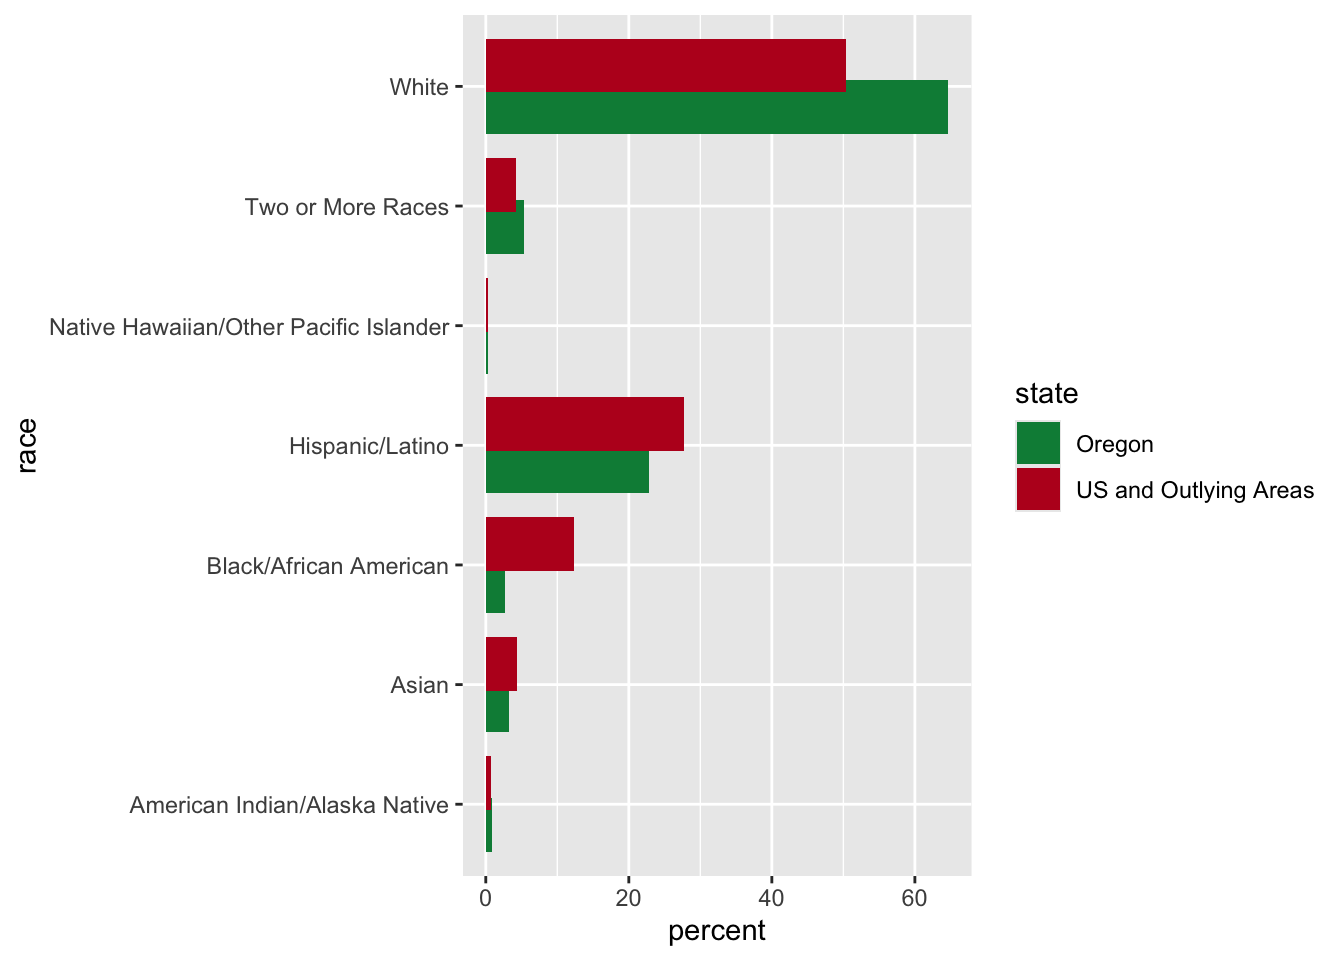
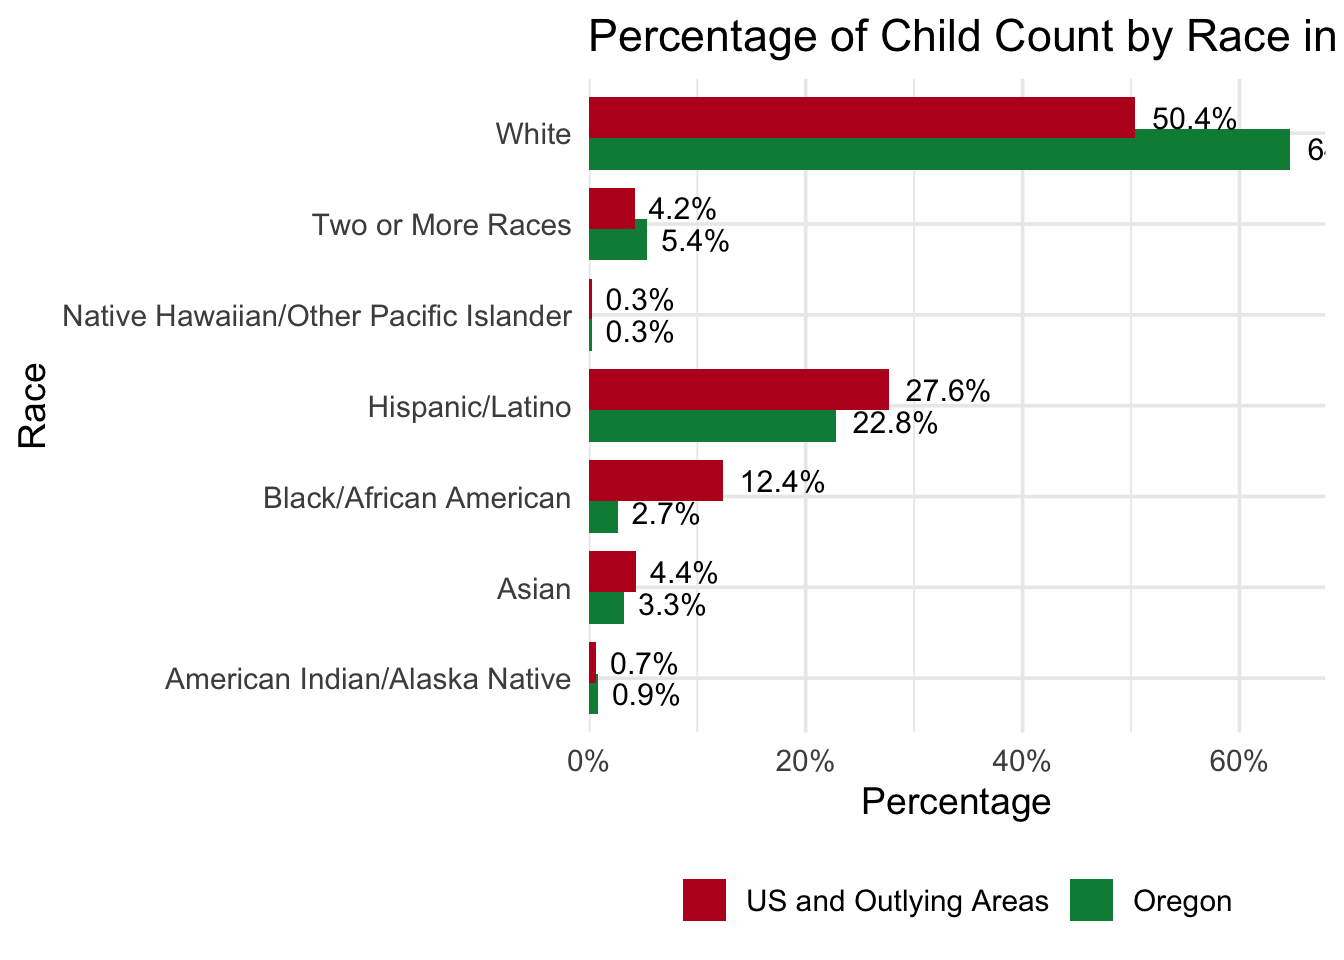
Changed colors of bars for Child Count in viz_2

diff --git a/docs/posts/viz_2/index.html b/docs/posts/viz_2/index.html
@@ -297,45 +297,99 @@ pre > code.sourceCode > span > a:first-child::before { text-decoration: underlin
 <div class="cell">
 <details class="code-fold">
 <summary>Code</summary>
-<div class="sourceCode cell-code" id="cb5"><pre class="sourceCode r code-with-copy"><code class="sourceCode r"><span id="cb5-1"><a href="#cb5-1" aria-hidden="true" tabindex="-1"></a>okabe_ito_colors <span class="ot">&lt;-</span> <span class="fu">c</span>(</span>
+<div class="sourceCode cell-code" id="cb5"><pre class="sourceCode r code-with-copy"><code class="sourceCode r"><span id="cb5-1"><a href="#cb5-1" aria-hidden="true" tabindex="-1"></a> okabe_ito_colors <span class="ot">&lt;-</span> <span class="fu">c</span>(</span>
 <span id="cb5-2"><a href="#cb5-2" aria-hidden="true" tabindex="-1"></a>  <span class="st">"US and Outlying Areas"</span> <span class="ot">=</span> <span class="fu">pal_aaas</span>(<span class="st">"default"</span>)(<span class="dv">10</span>)[<span class="dv">6</span>],      </span>
-<span id="cb5-3"><a href="#cb5-3" aria-hidden="true" tabindex="-1"></a>  <span class="st">"Oregon"</span> <span class="ot">=</span> <span class="fu">pal_aaas</span>(<span class="st">"default"</span>)(<span class="dv">10</span>)[<span class="dv">3</span>])  </span>
-<span id="cb5-4"><a href="#cb5-4" aria-hidden="true" tabindex="-1"></a></span>
-<span id="cb5-5"><a href="#cb5-5" aria-hidden="true" tabindex="-1"></a><span class="fu">ggplot</span>(childcount1920USOR_long, </span>
-<span id="cb5-6"><a href="#cb5-6" aria-hidden="true" tabindex="-1"></a>       <span class="fu">aes</span>(<span class="at">x =</span> percent, </span>
-<span id="cb5-7"><a href="#cb5-7" aria-hidden="true" tabindex="-1"></a>           <span class="at">y =</span> race, </span>
-<span id="cb5-8"><a href="#cb5-8" aria-hidden="true" tabindex="-1"></a>           <span class="at">fill =</span> state)) <span class="sc">+</span> </span>
-<span id="cb5-9"><a href="#cb5-9" aria-hidden="true" tabindex="-1"></a>  <span class="fu">geom_bar</span>(<span class="at">stat =</span> <span class="st">"identity"</span>, </span>
-<span id="cb5-10"><a href="#cb5-10" aria-hidden="true" tabindex="-1"></a>           <span class="at">position =</span> <span class="fu">position_dodge</span>(</span>
-<span id="cb5-11"><a href="#cb5-11" aria-hidden="true" tabindex="-1"></a>          <span class="at">width =</span> <span class="fl">0.7</span>)) <span class="sc">+</span>  </span>
-<span id="cb5-12"><a href="#cb5-12" aria-hidden="true" tabindex="-1"></a>  <span class="fu">scale_fill_manual</span>(</span>
-<span id="cb5-13"><a href="#cb5-13" aria-hidden="true" tabindex="-1"></a>    <span class="at">values =</span> okabe_ito_colors, </span>
-<span id="cb5-14"><a href="#cb5-14" aria-hidden="true" tabindex="-1"></a>    <span class="at">breaks =</span> <span class="fu">c</span>(<span class="st">"US and Outlying Areas"</span>, <span class="st">"Oregon"</span>),         </span>
-<span id="cb5-15"><a href="#cb5-15" aria-hidden="true" tabindex="-1"></a>    <span class="at">labels =</span> <span class="fu">c</span>(<span class="st">"US and Outlying Areas"</span>, <span class="st">"Oregon"</span>)          </span>
-<span id="cb5-16"><a href="#cb5-16" aria-hidden="true" tabindex="-1"></a>  ) <span class="sc">+</span></span>
-<span id="cb5-17"><a href="#cb5-17" aria-hidden="true" tabindex="-1"></a>  <span class="fu">scale_x_continuous</span>(</span>
-<span id="cb5-18"><a href="#cb5-18" aria-hidden="true" tabindex="-1"></a>    <span class="at">labels =</span> <span class="fu">percent_format</span>(<span class="at">scale =</span> <span class="dv">1</span>), </span>
-<span id="cb5-19"><a href="#cb5-19" aria-hidden="true" tabindex="-1"></a>    <span class="at">expand =</span> <span class="fu">expansion</span>(<span class="at">mult =</span> <span class="fu">c</span>(<span class="dv">0</span>, <span class="fl">0.05</span>))) <span class="sc">+</span></span>
-<span id="cb5-20"><a href="#cb5-20" aria-hidden="true" tabindex="-1"></a>  <span class="fu">labs</span>(</span>
-<span id="cb5-21"><a href="#cb5-21" aria-hidden="true" tabindex="-1"></a>    <span class="at">title =</span> <span class="st">"Percentage of Child Count by Race in US &amp; Oregon"</span>,</span>
-<span id="cb5-22"><a href="#cb5-22" aria-hidden="true" tabindex="-1"></a>    <span class="at">x =</span> <span class="st">"Percentage"</span>,</span>
-<span id="cb5-23"><a href="#cb5-23" aria-hidden="true" tabindex="-1"></a>    <span class="at">y =</span> <span class="st">"Race"</span>,</span>
-<span id="cb5-24"><a href="#cb5-24" aria-hidden="true" tabindex="-1"></a>    <span class="at">fill =</span> <span class="cn">NULL</span>) <span class="sc">+</span></span>
-<span id="cb5-25"><a href="#cb5-25" aria-hidden="true" tabindex="-1"></a>  <span class="fu">geom_text</span>(<span class="fu">aes</span>(</span>
-<span id="cb5-26"><a href="#cb5-26" aria-hidden="true" tabindex="-1"></a>    <span class="at">label =</span> scales<span class="sc">::</span><span class="fu">percent</span>(percent <span class="sc">/</span> <span class="dv">100</span>, <span class="at">accuracy =</span> <span class="fl">0.1</span>)), </span>
-<span id="cb5-27"><a href="#cb5-27" aria-hidden="true" tabindex="-1"></a>    <span class="at">position =</span> <span class="fu">position_dodge</span>(<span class="at">width =</span> <span class="fl">0.7</span>), </span>
-<span id="cb5-28"><a href="#cb5-28" aria-hidden="true" tabindex="-1"></a>    <span class="at">hjust =</span> <span class="sc">-</span><span class="fl">0.2</span>,  </span>
-<span id="cb5-29"><a href="#cb5-29" aria-hidden="true" tabindex="-1"></a>    <span class="at">color =</span> <span class="st">"black"</span>, </span>
-<span id="cb5-30"><a href="#cb5-30" aria-hidden="true" tabindex="-1"></a>    <span class="at">size =</span> <span class="dv">4</span>) <span class="sc">+</span>  </span>
-<span id="cb5-31"><a href="#cb5-31" aria-hidden="true" tabindex="-1"></a>  <span class="fu">theme_minimal</span>(<span class="at">base_size =</span> <span class="dv">14</span>) <span class="sc">+</span></span>
-<span id="cb5-32"><a href="#cb5-32" aria-hidden="true" tabindex="-1"></a>  <span class="fu">theme</span>(</span>
-<span id="cb5-33"><a href="#cb5-33" aria-hidden="true" tabindex="-1"></a>    <span class="at">legend.position =</span> <span class="st">"bottom"</span></span>
-<span id="cb5-34"><a href="#cb5-34" aria-hidden="true" tabindex="-1"></a>  )</span></code><button title="Copy to Clipboard" class="code-copy-button"><i class="bi"></i></button></pre></div>
+<span id="cb5-3"><a href="#cb5-3" aria-hidden="true" tabindex="-1"></a>  <span class="st">"Oregon"</span> <span class="ot">=</span> <span class="fu">pal_aaas</span>(<span class="st">"default"</span>)(<span class="dv">10</span>)[<span class="dv">3</span>])</span></code><button title="Copy to Clipboard" class="code-copy-button"><i class="bi"></i></button></pre></div>
+</details>
+</div>
+<div class="cell">
+<details class="code-fold">
+<summary>Code</summary>
+<div class="sourceCode cell-code" id="cb6"><pre class="sourceCode r code-with-copy"><code class="sourceCode r"><span id="cb6-1"><a href="#cb6-1" aria-hidden="true" tabindex="-1"></a><span class="fu">ggplot</span>(childcount1920USOR_long, </span>
+<span id="cb6-2"><a href="#cb6-2" aria-hidden="true" tabindex="-1"></a>       <span class="fu">aes</span>(<span class="at">x =</span> percent, </span>
+<span id="cb6-3"><a href="#cb6-3" aria-hidden="true" tabindex="-1"></a>           <span class="at">y =</span> race, </span>
+<span id="cb6-4"><a href="#cb6-4" aria-hidden="true" tabindex="-1"></a>           <span class="at">fill =</span> state)) <span class="sc">+</span> </span>
+<span id="cb6-5"><a href="#cb6-5" aria-hidden="true" tabindex="-1"></a>  <span class="fu">geom_bar</span>(<span class="at">stat =</span> <span class="st">"identity"</span>, </span>
+<span id="cb6-6"><a href="#cb6-6" aria-hidden="true" tabindex="-1"></a>           <span class="at">position =</span> <span class="fu">position_dodge</span>(</span>
+<span id="cb6-7"><a href="#cb6-7" aria-hidden="true" tabindex="-1"></a>          <span class="at">width =</span> <span class="fl">0.7</span>)) <span class="sc">+</span>  </span>
+<span id="cb6-8"><a href="#cb6-8" aria-hidden="true" tabindex="-1"></a>  <span class="fu">scale_fill_manual</span>(</span>
+<span id="cb6-9"><a href="#cb6-9" aria-hidden="true" tabindex="-1"></a>    <span class="at">values =</span> okabe_ito_colors, </span>
+<span id="cb6-10"><a href="#cb6-10" aria-hidden="true" tabindex="-1"></a>    <span class="at">breaks =</span> <span class="fu">c</span>(<span class="st">"US and Outlying Areas"</span>, <span class="st">"Oregon"</span>),         </span>
+<span id="cb6-11"><a href="#cb6-11" aria-hidden="true" tabindex="-1"></a>    <span class="at">labels =</span> <span class="fu">c</span>(<span class="st">"US and Outlying Areas"</span>, <span class="st">"Oregon"</span>)          </span>
+<span id="cb6-12"><a href="#cb6-12" aria-hidden="true" tabindex="-1"></a>  ) <span class="sc">+</span></span>
+<span id="cb6-13"><a href="#cb6-13" aria-hidden="true" tabindex="-1"></a>  <span class="fu">scale_x_continuous</span>(</span>
+<span id="cb6-14"><a href="#cb6-14" aria-hidden="true" tabindex="-1"></a>    <span class="at">labels =</span> <span class="fu">percent_format</span>(<span class="at">scale =</span> <span class="dv">1</span>), </span>
+<span id="cb6-15"><a href="#cb6-15" aria-hidden="true" tabindex="-1"></a>    <span class="at">expand =</span> <span class="fu">expansion</span>(<span class="at">mult =</span> <span class="fu">c</span>(<span class="dv">0</span>, <span class="fl">0.05</span>))) <span class="sc">+</span></span>
+<span id="cb6-16"><a href="#cb6-16" aria-hidden="true" tabindex="-1"></a>  <span class="fu">labs</span>(</span>
+<span id="cb6-17"><a href="#cb6-17" aria-hidden="true" tabindex="-1"></a>    <span class="at">title =</span> <span class="st">"Percentage of Child Count by Race in US &amp; Oregon"</span>,</span>
+<span id="cb6-18"><a href="#cb6-18" aria-hidden="true" tabindex="-1"></a>    <span class="at">x =</span> <span class="st">"Percentage"</span>,</span>
+<span id="cb6-19"><a href="#cb6-19" aria-hidden="true" tabindex="-1"></a>    <span class="at">y =</span> <span class="st">"Race"</span>,</span>
+<span id="cb6-20"><a href="#cb6-20" aria-hidden="true" tabindex="-1"></a>    <span class="at">fill =</span> <span class="cn">NULL</span>) <span class="sc">+</span></span>
+<span id="cb6-21"><a href="#cb6-21" aria-hidden="true" tabindex="-1"></a>  <span class="fu">geom_text</span>(<span class="fu">aes</span>(</span>
+<span id="cb6-22"><a href="#cb6-22" aria-hidden="true" tabindex="-1"></a>    <span class="at">label =</span> scales<span class="sc">::</span><span class="fu">percent</span>(percent <span class="sc">/</span> <span class="dv">100</span>, <span class="at">accuracy =</span> <span class="fl">0.1</span>)), </span>
+<span id="cb6-23"><a href="#cb6-23" aria-hidden="true" tabindex="-1"></a>    <span class="at">position =</span> <span class="fu">position_dodge</span>(<span class="at">width =</span> <span class="fl">0.7</span>), </span>
+<span id="cb6-24"><a href="#cb6-24" aria-hidden="true" tabindex="-1"></a>    <span class="at">hjust =</span> <span class="sc">-</span><span class="fl">0.2</span>,  </span>
+<span id="cb6-25"><a href="#cb6-25" aria-hidden="true" tabindex="-1"></a>    <span class="at">color =</span> <span class="st">"black"</span>, </span>
+<span id="cb6-26"><a href="#cb6-26" aria-hidden="true" tabindex="-1"></a>    <span class="at">size =</span> <span class="dv">4</span>) <span class="sc">+</span>  </span>
+<span id="cb6-27"><a href="#cb6-27" aria-hidden="true" tabindex="-1"></a>  <span class="fu">theme_minimal</span>(<span class="at">base_size =</span> <span class="dv">14</span>) <span class="sc">+</span></span>
+<span id="cb6-28"><a href="#cb6-28" aria-hidden="true" tabindex="-1"></a>  <span class="fu">theme</span>(</span>
+<span id="cb6-29"><a href="#cb6-29" aria-hidden="true" tabindex="-1"></a>    <span class="at">legend.position =</span> <span class="st">"bottom"</span></span>
+<span id="cb6-30"><a href="#cb6-30" aria-hidden="true" tabindex="-1"></a>  )</span></code><button title="Copy to Clipboard" class="code-copy-button"><i class="bi"></i></button></pre></div>
 </details>
 <div class="cell-output-display">
 <div>
 <figure class="figure">
-<p><img src="index_files/figure-html/unnamed-chunk-11-1.png" class="img-fluid figure-img" width="672"></p>
+<p><img src="index_files/figure-html/unnamed-chunk-12-1.png" class="img-fluid figure-img" width="672"></p>
+</figure>
+</div>
+</div>
+</div>
+<div class="cell">
+<details class="code-fold">
+<summary>Code</summary>
+<div class="sourceCode cell-code" id="cb7"><pre class="sourceCode r code-with-copy"><code class="sourceCode r"><span id="cb7-1"><a href="#cb7-1" aria-hidden="true" tabindex="-1"></a>viridis_colors <span class="ot">&lt;-</span> <span class="fu">c</span>(</span>
+<span id="cb7-2"><a href="#cb7-2" aria-hidden="true" tabindex="-1"></a>  <span class="st">"Oregon"</span> <span class="ot">=</span> <span class="st">"#414487"</span>,               </span>
+<span id="cb7-3"><a href="#cb7-3" aria-hidden="true" tabindex="-1"></a>  <span class="st">"US and Outlying Areas"</span> <span class="ot">=</span> <span class="st">"#7ad151"</span>) </span></code><button title="Copy to Clipboard" class="code-copy-button"><i class="bi"></i></button></pre></div>
+</details>
+</div>
+<div class="cell">
+<details class="code-fold">
+<summary>Code</summary>
+<div class="sourceCode cell-code" id="cb8"><pre class="sourceCode r code-with-copy"><code class="sourceCode r"><span id="cb8-1"><a href="#cb8-1" aria-hidden="true" tabindex="-1"></a><span class="fu">ggplot</span>(childcount1920USOR_long, </span>
+<span id="cb8-2"><a href="#cb8-2" aria-hidden="true" tabindex="-1"></a>       <span class="fu">aes</span>(<span class="at">x =</span> percent, </span>
+<span id="cb8-3"><a href="#cb8-3" aria-hidden="true" tabindex="-1"></a>           <span class="at">y =</span> race, </span>
+<span id="cb8-4"><a href="#cb8-4" aria-hidden="true" tabindex="-1"></a>           <span class="at">fill =</span> state)) <span class="sc">+</span> </span>
+<span id="cb8-5"><a href="#cb8-5" aria-hidden="true" tabindex="-1"></a>  <span class="fu">geom_bar</span>(<span class="at">stat =</span> <span class="st">"identity"</span>,</span>
+<span id="cb8-6"><a href="#cb8-6" aria-hidden="true" tabindex="-1"></a>           <span class="at">position =</span> <span class="fu">position_dodge</span>(</span>
+<span id="cb8-7"><a href="#cb8-7" aria-hidden="true" tabindex="-1"></a>          <span class="at">width =</span> <span class="fl">0.7</span>)) <span class="sc">+</span>  </span>
+<span id="cb8-8"><a href="#cb8-8" aria-hidden="true" tabindex="-1"></a>  <span class="fu">scale_fill_manual</span>(</span>
+<span id="cb8-9"><a href="#cb8-9" aria-hidden="true" tabindex="-1"></a>    <span class="at">values =</span> viridis_colors, </span>
+<span id="cb8-10"><a href="#cb8-10" aria-hidden="true" tabindex="-1"></a>    <span class="at">breaks =</span> <span class="fu">c</span>(<span class="st">"US and Outlying Areas"</span>, <span class="st">"Oregon"</span>),         </span>
+<span id="cb8-11"><a href="#cb8-11" aria-hidden="true" tabindex="-1"></a>    <span class="at">labels =</span> <span class="fu">c</span>(<span class="st">"US and Outlying Areas"</span>, <span class="st">"Oregon"</span>)          </span>
+<span id="cb8-12"><a href="#cb8-12" aria-hidden="true" tabindex="-1"></a>  ) <span class="sc">+</span></span>
+<span id="cb8-13"><a href="#cb8-13" aria-hidden="true" tabindex="-1"></a>  <span class="fu">scale_x_continuous</span>(</span>
+<span id="cb8-14"><a href="#cb8-14" aria-hidden="true" tabindex="-1"></a>    <span class="at">labels =</span> <span class="fu">percent_format</span>(<span class="at">scale =</span> <span class="dv">1</span>), </span>
+<span id="cb8-15"><a href="#cb8-15" aria-hidden="true" tabindex="-1"></a>    <span class="at">expand =</span> <span class="fu">expansion</span>(<span class="at">mult =</span> <span class="fu">c</span>(<span class="dv">0</span>, <span class="fl">0.05</span>))) <span class="sc">+</span></span>
+<span id="cb8-16"><a href="#cb8-16" aria-hidden="true" tabindex="-1"></a>  <span class="fu">labs</span>(</span>
+<span id="cb8-17"><a href="#cb8-17" aria-hidden="true" tabindex="-1"></a>    <span class="at">title =</span> <span class="st">"Racial Representation of Children in EI"</span>,</span>
+<span id="cb8-18"><a href="#cb8-18" aria-hidden="true" tabindex="-1"></a>    <span class="at">x =</span> <span class="st">"Percentage"</span>,</span>
+<span id="cb8-19"><a href="#cb8-19" aria-hidden="true" tabindex="-1"></a>    <span class="at">y =</span> <span class="st">"Race"</span>,</span>
+<span id="cb8-20"><a href="#cb8-20" aria-hidden="true" tabindex="-1"></a>    <span class="at">fill =</span> <span class="cn">NULL</span>) <span class="sc">+</span></span>
+<span id="cb8-21"><a href="#cb8-21" aria-hidden="true" tabindex="-1"></a>  <span class="fu">geom_text</span>(<span class="fu">aes</span>(</span>
+<span id="cb8-22"><a href="#cb8-22" aria-hidden="true" tabindex="-1"></a>    <span class="at">label =</span> scales<span class="sc">::</span><span class="fu">percent</span>(percent <span class="sc">/</span> <span class="dv">100</span>, <span class="at">accuracy =</span> <span class="fl">0.1</span>)), </span>
+<span id="cb8-23"><a href="#cb8-23" aria-hidden="true" tabindex="-1"></a>    <span class="at">position =</span> <span class="fu">position_dodge</span>(<span class="at">width =</span> <span class="fl">0.7</span>), </span>
+<span id="cb8-24"><a href="#cb8-24" aria-hidden="true" tabindex="-1"></a>    <span class="at">hjust =</span> <span class="sc">-</span><span class="fl">0.2</span>,  </span>
+<span id="cb8-25"><a href="#cb8-25" aria-hidden="true" tabindex="-1"></a>    <span class="at">color =</span> <span class="st">"black"</span>, </span>
+<span id="cb8-26"><a href="#cb8-26" aria-hidden="true" tabindex="-1"></a>    <span class="at">size =</span> <span class="dv">4</span>) <span class="sc">+</span>  </span>
+<span id="cb8-27"><a href="#cb8-27" aria-hidden="true" tabindex="-1"></a>  <span class="fu">theme_minimal</span>(<span class="at">base_size =</span> <span class="dv">14</span>) <span class="sc">+</span></span>
+<span id="cb8-28"><a href="#cb8-28" aria-hidden="true" tabindex="-1"></a>  <span class="fu">theme</span>(</span>
+<span id="cb8-29"><a href="#cb8-29" aria-hidden="true" tabindex="-1"></a>    <span class="at">legend.position =</span> <span class="st">"bottom"</span></span>
+<span id="cb8-30"><a href="#cb8-30" aria-hidden="true" tabindex="-1"></a>  )</span></code><button title="Copy to Clipboard" class="code-copy-button"><i class="bi"></i></button></pre></div>
+</details>
+<div class="cell-output-display">
+<div>
+<figure class="figure">
+<p><img src="index_files/figure-html/unnamed-chunk-14-1.png" class="img-fluid figure-img" width="672"></p>
 </figure>
 </div>
 </div>

diff --git a/docs/index.html b/docs/index.html
@@ -278,7 +278,7 @@ Maiko Hata
 </a>
 </div>
 </div>
-<div class="quarto-post image-right" data-index="2" data-categories="dmlzdWFsaXphdGlvbiUyQ2NvZGUlMkNhbmFseXNpcw==" data-listing-date-sort="1740729600000" data-listing-file-modified-sort="1741050715085" data-listing-date-modified-sort="NaN" data-listing-reading-time-sort="7" data-listing-word-count-sort="1205">
+<div class="quarto-post image-right" data-index="2" data-categories="dmlzdWFsaXphdGlvbiUyQ2NvZGUlMkNhbmFseXNpcw==" data-listing-date-sort="1740729600000" data-listing-file-modified-sort="1741055068669" data-listing-date-modified-sort="NaN" data-listing-reading-time-sort="8" data-listing-word-count-sort="1471">
 <div class="thumbnail">
 <p><a href="./posts/viz_2/index.html" class="no-external"></a></p><a href="./posts/viz_2/index.html" class="no-external">
 <p><img loading="lazy" src="./posts/viz_2/ggplot_geom_bar_cc.png" class="thumbnail-image"></p>
